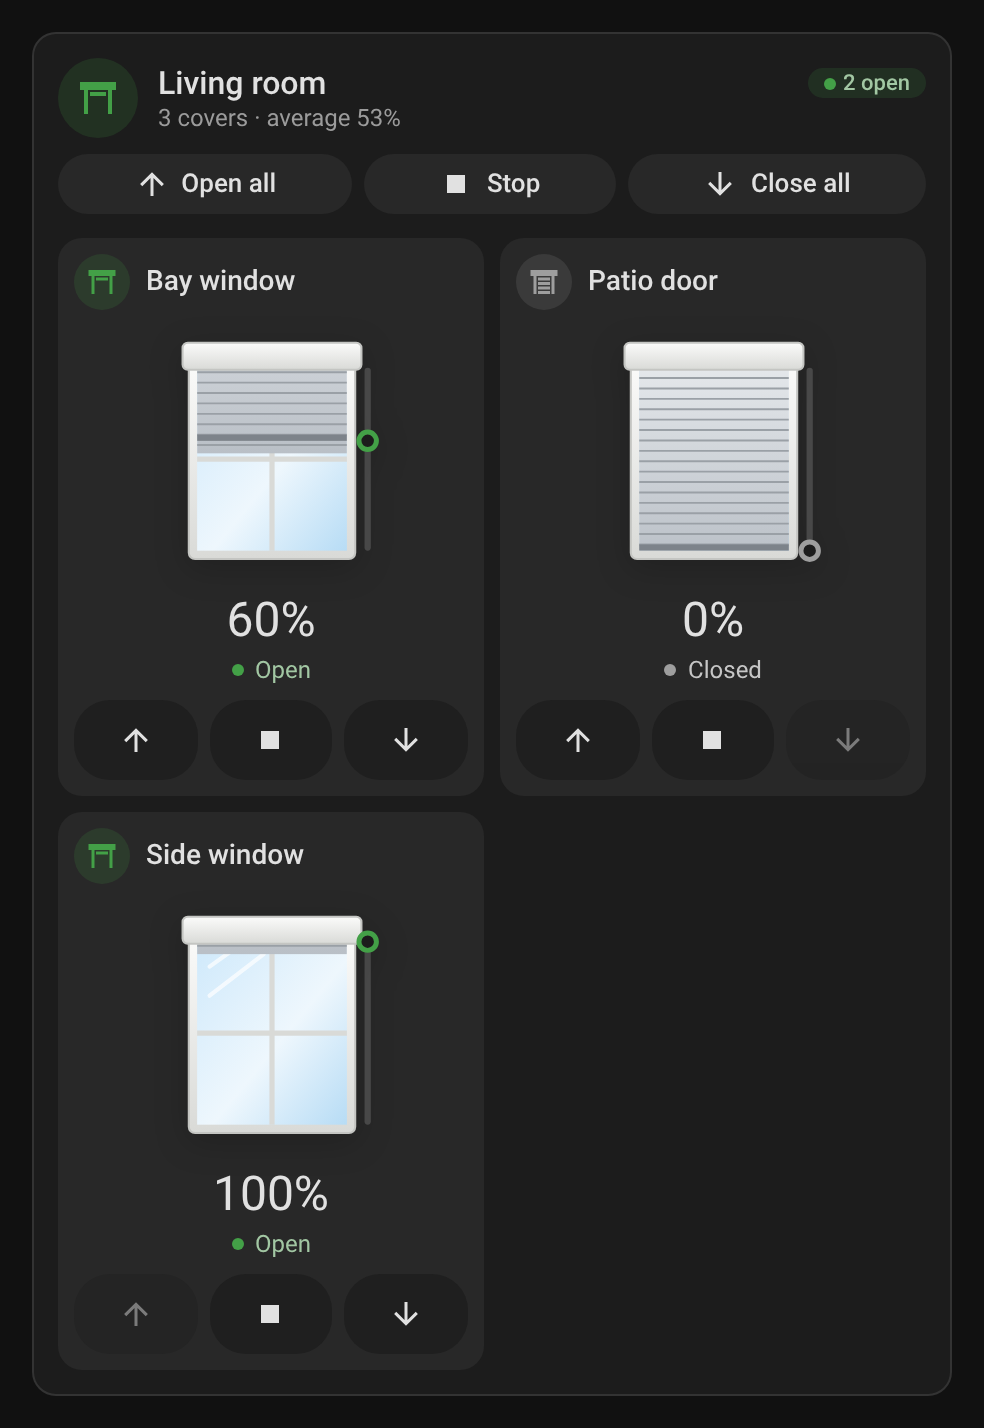
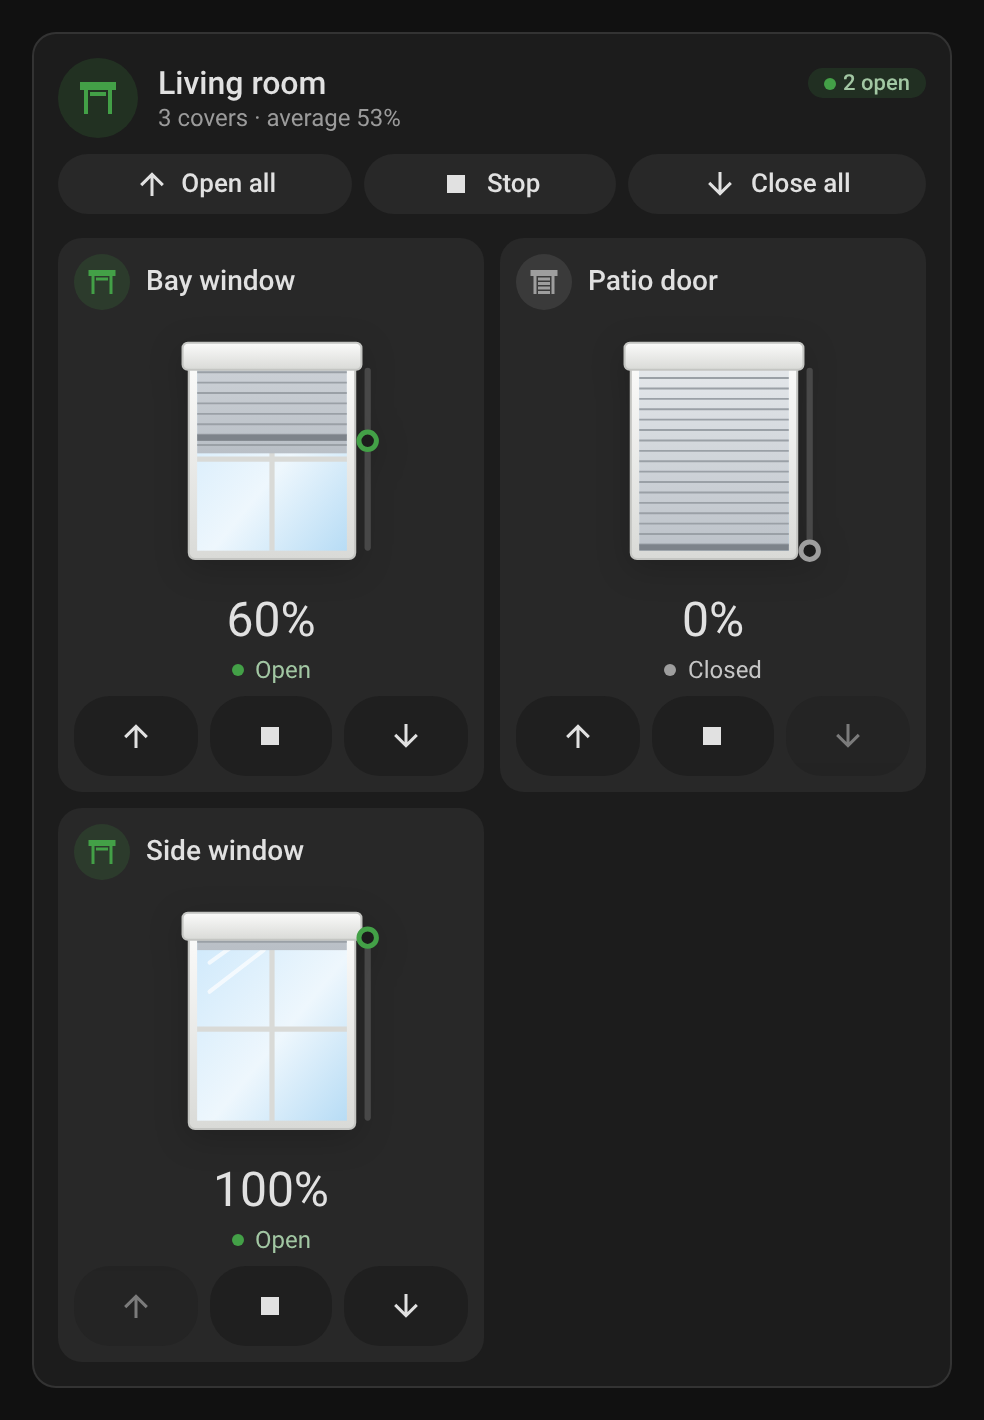
feat: draw feedback-less covers closed at rest (1.5.0) (#22)
Resolves #21.

## What
- **New `no_feedback` option** (per cover or whole card, exposed in the visual editor): for a cover that never reports its real state — a radio **RTS** motor and the like. At rest it is drawn and badged **closed** instead of trusting an assumed `open`; it still animates while opening/closing and keeps its Open / Stop / Close buttons enabled (the assumed state is not trusted). Covers that report a position are unaffected.
- **Tile button alignment**: in a `columns: 2`/`3` grid, the Open / Stop / Close rows now line up across tiles, even when one cover shows a position and another only a word (e.g. a garage door next to an RTS gate).

## Why
The reporter runs a sliding gate on a Somfy **RTS** motor: no state feedback, so the card drew it permanently open. `no_feedback` lets the picture rest closed, which is the sensible default for a feedback-less cover.

## Notes
- `feat` → minor bump **1.5.0** (CHANGELOG, package.json, package-lock.json in sync).
- 22 languages kept in sync for the new editor strings.
- README documented (card option + per-cover table + Position note).
- Local checks green: `pre-commit run -a`, `jscpd`, `npm run check`, `node --test` (new tests cover rest-closed, buttons stay enabled, animation while moving, editor round-trip).

---
_Generated by [Claude Code](https://claude.ai/code/session_01F4sAn2PgbdSND8gvt43SmS)_

diff --git a/src/cover-card.js b/src/cover-card.js
@@ -157,6 +157,8 @@ const STRINGS = {
     confirm_never: "Never",
     e_invert: "Invert position",
     h_invert: "For a cover whose integration reports the position the wrong way round (often an awning)",
+    e_no_feedback: "No state feedback",
+    h_no_feedback: "For a cover that never reports its state back (a radio RTS motor): draw it closed at rest",
   },
   fr: {
     covers: "Ouvrants",
@@ -236,6 +238,8 @@ const STRINGS = {
     confirm_never: "Jamais",
     e_invert: "Inverser la position",
     h_invert: "Pour un ouvrant dont l'intégration remonte la position à l'envers (souvent un store banne)",
+    e_no_feedback: "Aucun retour d'état",
+    h_no_feedback: "Pour un ouvrant qui ne remonte jamais son état (un moteur radio RTS) : dessiné fermé au repos",
   },
   de: {
     covers: "Abdeckungen",
@@ -315,6 +319,8 @@ const STRINGS = {
     confirm_never: "Nie",
     e_invert: "Position umkehren",
     h_invert: "Für eine Abdeckung, deren Integration die Position umgekehrt meldet (oft eine Markise)",
+    e_no_feedback: "Keine Statusrückmeldung",
+    h_no_feedback: "Für eine Abdeckung, die ihren Zustand nie zurückmeldet (ein RTS-Funkmotor): im Ruhezustand geschlossen gezeichnet",
   },
   es: {
     covers: "Cerramientos",
@@ -394,6 +400,8 @@ const STRINGS = {
     confirm_never: "Nunca",
     e_invert: "Invertir la posición",
     h_invert: "Para una cubierta cuya integración informa la posición al revés (a menudo un toldo)",
+    e_no_feedback: "Sin información de estado",
+    h_no_feedback: "Para una cubierta que nunca informa su estado (un motor de radio RTS): dibujada cerrada en reposo",
   },
   sr: {
     covers: "Затварачи",
@@ -473,6 +481,8 @@ const STRINGS = {
     confirm_never: "Никад",
     e_invert: "Обрни положај",
     h_invert: "За застор чија интеграција пријављује положај обрнуто (често тенда)",
+    e_no_feedback: "Без повратне информације о стању",
+    h_no_feedback: "За застор који никада не пријављује своје стање (радио RTS мотор): нацртан затворено у мировању",
   },
   "sr-Latn": {
     covers: "Zatvarači",
@@ -552,6 +562,8 @@ const STRINGS = {
     confirm_never: "Nikad",
     e_invert: "Obrni položaj",
     h_invert: "Za zastor čija integracija prijavljuje položaj obrnuto (često tenda)",
+    e_no_feedback: "Bez povratne informacije o stanju",
+    h_no_feedback: "Za zastor koji nikada ne prijavljuje svoje stanje (radio RTS motor): nacrtan zatvoreno u mirovanju",
   },
   it: {
     covers: "Coperture",
@@ -631,6 +643,8 @@ const STRINGS = {
     confirm_never: "Mai",
     e_invert: "Inverti la posizione",
     h_invert: "Per una copertura la cui integrazione segnala la posizione al contrario (spesso una tenda da sole)",
+    e_no_feedback: "Nessun ritorno di stato",
+    h_no_feedback: "Per una copertura che non segnala mai il suo stato (un motore radio RTS): disegnata chiusa a riposo",
   },
   nl: {
     covers: "Afdekkingen",
@@ -710,6 +724,8 @@ const STRINGS = {
     confirm_never: "Nooit",
     e_invert: "Positie omkeren",
     h_invert: "Voor een afdekking waarvan de integratie de positie omgekeerd doorgeeft (vaak een zonnescherm)",
+    e_no_feedback: "Geen statusterugkoppeling",
+    h_no_feedback: "Voor een afdekking die haar status nooit terugmeldt (een RTS-radiomotor): in rust gesloten getekend",
   },
   pt: {
     covers: "Estores",
@@ -789,6 +805,8 @@ const STRINGS = {
     confirm_never: "Nunca",
     e_invert: "Inverter a posição",
     h_invert: "Para um estore cuja integração indica a posição ao contrário (muitas vezes um toldo)",
+    e_no_feedback: "Sem retorno de estado",
+    h_no_feedback: "Para um estore que nunca comunica o seu estado (um motor de rádio RTS): desenhado fechado em repouso",
   },
   pl: {
     covers: "Osłony",
@@ -868,6 +886,8 @@ const STRINGS = {
     confirm_never: "Nigdy",
     e_invert: "Odwróć pozycję",
     h_invert: "Dla osłony, której integracja podaje pozycję odwrotnie (często markiza)",
+    e_no_feedback: "Brak informacji o stanie",
+    h_no_feedback: "Dla osłony, która nigdy nie zgłasza swojego stanu (radiowy silnik RTS): rysowana jako zamknięta w spoczynku",
   },
   ro: {
     covers: "Jaluzele",
@@ -947,6 +967,8 @@ const STRINGS = {
     confirm_never: "Niciodată",
     e_invert: "Inversează poziția",
     h_invert: "Pentru un element a cărui integrare raportează poziția invers (adesea o copertină)",
+    e_no_feedback: "Fără feedback de stare",
+    h_no_feedback: "Pentru un element care nu își raportează niciodată starea (un motor radio RTS): desenat închis în repaus",
   },
   da: {
     covers: "Afskærmninger",
@@ -1026,6 +1048,8 @@ const STRINGS = {
     confirm_never: "Aldrig",
     e_invert: "Vend positionen",
     h_invert: "For en afskærmning, hvis integration melder positionen omvendt (ofte en markise)",
+    e_no_feedback: "Ingen tilstandsrespons",
+    h_no_feedback: "For en afskærmning, der aldrig melder sin tilstand tilbage (en RTS-radiomotor): tegnet lukket i hvile",
   },
   sv: {
     covers: "Skydd",
@@ -1105,6 +1129,8 @@ const STRINGS = {
     confirm_never: "Aldrig",
     e_invert: "Invertera positionen",
     h_invert: "För en täckning vars integration rapporterar positionen omvänt (ofta en markis)",
+    e_no_feedback: "Ingen statusåterkoppling",
+    h_no_feedback: "För en täckning som aldrig rapporterar sitt tillstånd (en RTS-radiomotor): ritas stängd i viloläge",
   },
   bg: {
     covers: "Щори",
@@ -1184,6 +1210,8 @@ const STRINGS = {
     confirm_never: "Никога",
     e_invert: "Обръщане на позицията",
     h_invert: "За покритие, чиято интеграция докладва позицията обратно (често сенник)",
+    e_no_feedback: "Без обратна връзка за състоянието",
+    h_no_feedback: "За покритие, което никога не докладва състоянието си (радио RTS мотор): нарисувано затворено в покой",
   },
   ru: {
     covers: "Шторы",
@@ -1263,6 +1291,8 @@ const STRINGS = {
     confirm_never: "Никогда",
     e_invert: "Инвертировать положение",
     h_invert: "Для шторы, чья интеграция сообщает положение наоборот (часто маркиза)",
+    e_no_feedback: "Нет обратной связи о состоянии",
+    h_no_feedback: "Для шторы, которая никогда не сообщает своё состояние (радиомотор RTS): отрисовывается закрытой в покое",
   },
   uk: {
     covers: "Штори",
@@ -1342,6 +1372,8 @@ const STRINGS = {
     confirm_never: "Ніколи",
     e_invert: "Інвертувати положення",
     h_invert: "Для штори, чия інтеграція повідомляє положення навпаки (часто маркіза)",
+    e_no_feedback: "Немає зворотного зв'язку про стан",
+    h_no_feedback: "Для штори, яка ніколи не повідомляє свій стан (радіомотор RTS): малюється закритою у спокої",
   },
   hu: {
     covers: "Árnyékolók",
@@ -1421,6 +1453,8 @@ const STRINGS = {
     confirm_never: "Soha",
     e_invert: "Pozíció megfordítása",
     h_invert: "Olyan árnyékolóhoz, amelynek integrációja fordítva jelzi a pozíciót (gyakran napellenző)",
+    e_no_feedback: "Nincs állapot-visszajelzés",
+    h_no_feedback: "Olyan árnyékolóhoz, amely soha nem jelzi vissza az állapotát (RTS rádiómotor): nyugalmi helyzetben zárva rajzolva",
   },
   sk: {
     covers: "Clony",
@@ -1500,6 +1534,8 @@ const STRINGS = {
     confirm_never: "Nikdy",
     e_invert: "Obrátiť polohu",
     h_invert: "Pre kryt, ktorého integrácia hlási polohu opačne (často markíza)",
+    e_no_feedback: "Žiadna spätná väzba o stave",
+    h_no_feedback: "Pre kryt, ktorý nikdy nehlási svoj stav (rádiový motor RTS): v pokoji vykreslený zatvorený",
   },
   cs: {
     covers: "Clony",
@@ -1579,6 +1615,8 @@ const STRINGS = {
     confirm_never: "Nikdy",
     e_invert: "Obrátit polohu",
     h_invert: "Pro kryt, jehož integrace hlásí polohu obráceně (často markýza)",
+    e_no_feedback: "Bez zpětné vazby o stavu",
+    h_no_feedback: "Pro kryt, který nikdy nehlásí svůj stav (rádiový motor RTS): v klidu vykreslen zavřený",
   },
   sl: {
     covers: "Senčila",
@@ -1658,6 +1696,8 @@ const STRINGS = {
     confirm_never: "Nikoli",
     e_invert: "Obrni položaj",
     h_invert: "Za senčilo, katerega integracija sporoča položaj obratno (pogosto tenda)",
+    e_no_feedback: "Brez povratne informacije o stanju",
+    h_no_feedback: "Za senčilo, ki nikoli ne sporoči svojega stanja (radijski motor RTS): v mirovanju narisano zaprto",
   },
   lv: {
     covers: "Aizsegi",
@@ -1737,6 +1777,8 @@ const STRINGS = {
     confirm_never: "Nekad",
     e_invert: "Apvērst pozīciju",
     h_invert: "Pārsegam, kura integrācija ziņo pozīciju otrādi (bieži markīze)",
+    e_no_feedback: "Nav stāvokļa atgriezeniskās saites",
+    h_no_feedback: "Pārsegam, kas nekad nepaziņo savu stāvokli (RTS radio motors): miera stāvoklī zīmēts aizvērts",
   },
   el: {
     covers: "Σκιάστρα",
@@ -1816,6 +1858,8 @@ const STRINGS = {
     confirm_never: "Ποτέ",
     e_invert: "Αντιστροφή θέσης",
     h_invert: "Για κάλυμμα του οποίου η ενσωμάτωση αναφέρει τη θέση ανάποδα (συχνά τέντα)",
+    e_no_feedback: "Χωρίς ανατροφοδότηση κατάστασης",
+    h_no_feedback: "Για ένα κάλυμμα που δεν αναφέρει ποτέ την κατάστασή του (ραδιοκινητήρας RTS): σχεδιάζεται κλειστό σε ηρεμία",
   },
 };
 
@@ -2293,10 +2337,12 @@ const FULL_STYLE = `
                        background: color-mix(in srgb, var(--c) 16%, transparent); color: var(--c); }
   .tile-head .mbadge .icon { width: 18px; height: 18px; }
   .tile-head .iname { flex: 1 1 0; min-width: 0; font-size: 14px; font-weight: 500; white-space: nowrap; overflow: hidden; text-overflow: ellipsis; }
-  .tile .hero { flex-direction: column; align-items: stretch; gap: 8px; }
+  .tile .hero { flex: 1 1 auto; flex-direction: column; align-items: stretch; gap: 8px; }
   .tile .hero .visual { align-self: center; width: 104px; height: 125px; }
-  .tile .info { align-items: center; text-align: center; }
-  .tile .controls { flex-wrap: nowrap; align-self: stretch; }
+  /* Tiles in a row stretch to the same height; the picture + value area grows and the buttons sit at the bottom,
+     so the button rows line up across tiles even when one cover shows a position and another only a word. */
+  .tile .info { flex: 1 1 auto; align-items: center; text-align: center; }
+  .tile .controls { flex-wrap: nowrap; align-self: stretch; margin-top: auto; }
   .tile .controls .btn { flex: 1 1 0; min-height: 40px; }
   .tile .btn { background: color-mix(in srgb, var(--card-background-color, #fff) 75%, transparent); }
   .tile .btn.on { background: color-mix(in srgb, var(--cc-accent) 16%, var(--card-background-color, #fff)); }
@@ -2549,10 +2595,18 @@ class CoverBase extends HTMLElement {
     this._area = area;
     const cardFavs = favoritesOf(this._config.favorites);
     return items.map((i) => {
-      const s = this._hass.states[i.entity];
+      let s = this._hass.states[i.entity];
+      // Covers with no state feedback (a radio RTS motor, which reports nothing back): at rest they are drawn and
+      // badged closed, since their open/closed state is only assumed. While the cover moves, the real state is kept
+      // so the picture still animates; a cover that actually reports a position is left alone — it has real feedback.
+      const noFeedback = Boolean(i.no_feedback ?? this._config.no_feedback);
+      if (noFeedback && s && !isMoving(s) && s.state !== "closed" && s.state !== "unavailable" && numAttr(s, "current_position") === null) {
+        s = { ...s, state: "closed" };
+      }
       return {
         id: i.entity,
         s,
+        noFeedback,
         cls: classOf(s, i.device_class || this._config.device_class),
         // Covers whose integration reports the position the wrong way round (often awnings): the card mirrors it.
         invert: Boolean(i.invert ?? this._config.invert),
@@ -3014,7 +3068,7 @@ class CoverBase extends HTMLElement {
   _buttons(item, { round = false, labels = true } = {}) {
     const s = item.s;
     const off = isOffline(s);
-    const pos = s?.attributes?.assumed_state === true ? null : positionOf(s);
+    const pos = s?.attributes?.assumed_state === true || item.noFeedback ? null : positionOf(s);
     const out = [];
     for (const action of ["open", "stop", "close"]) {
       if (!s || !has(s, SERVICES[action][1])) continue;
@@ -3364,6 +3418,7 @@ const toForm = (config, toggles) => {
   data.favorites = (Array.isArray(config.favorites) ? config.favorites : []).filter((f) => typeof f === "number" || typeof f === "string").map(String);
   data.device_class ??= "auto";
   data.invert ??= false;
+  data.no_feedback ??= false;
   data.confirm = CONFIRM_MODES.find(([, v]) => v === config.confirm)?.[0] ?? "auto";
   data.columns = String(columnsOf(config));
   for (const [name, def] of toggles) if (data[name] === undefined) data[name] = def;
@@ -3391,6 +3446,7 @@ const fromForm = (value, previous, toggles) => {
   if (favs.length) config.favorites = favs;
   if (config.device_class === "auto") delete config.device_class;
   if (config.invert === false) delete config.invert;
+  if (config.no_feedback === false) delete config.no_feedback;
   const mode = CONFIRM_MODES.find(([k]) => k === config.confirm);
   if (mode && mode[1] !== undefined) config.confirm = mode[1];
   else delete config.confirm;
@@ -3430,6 +3486,7 @@ class CoverEditorBase extends HTMLElement {
         selector: { select: { mode: "dropdown", options: [{ value: "auto", label: tr("class_auto") }, ...CLASSES.map((c) => ({ value: c, label: tr(`c_${c}`) }))] } },
       },
       { name: "invert", selector: { boolean: {} } },
+      { name: "no_feedback", selector: { boolean: {} } },
       {
         name: "favorites",
         selector: { select: { multiple: true, custom_value: true, mode: "dropdown", options: FAVORITE_PRESETS.map((v) => ({ value: v, label: `${v} %` })) } },

diff --git a/README.md b/README.md
@@ -182,6 +182,7 @@ zoom: true
 | `show_subtitle` | both | `true` | Show the subtitle (kind of cover and area, or the number of covers and their average position) |
 | `device_class` | both | Device class of each cover | Picture to draw for every cover: `shutter`, `blind`, `shade`, `curtain`, `awning`, `garage`, `gate`, `door`, `window` or `damper` |
 | `invert` | both | `false` | Reverse the position axis for covers whose integration reports it the wrong way round (often awnings): the picture, the slider and the percentage use `100 − current_position`, and `set_cover_position` is sent reversed. Set per cover (in its `entities` object) or for the whole card. The Open / Stop / Close buttons are unchanged |
+| `no_feedback` | both | `false` | For a cover that never reports its real state (a radio **RTS** motor and the like): at rest it is drawn and badged **closed**, since its open/closed state is only assumed. While it moves it still animates, and the Open / Stop / Close buttons stay enabled. Set per cover (in its `entities` object) or for the whole card. Covers that report a position are unaffected |
 | `favorites` | both | — | Favorite positions: numbers (a position in %) or objects with `name`, `position` and/or `tilt`. With one cover they are its favorites; with several, they move every cover that can take them |
 | `show_controls` | both | `true` | Open / Stop / Close buttons (and the tilt buttons) |
 | `show_group_controls` | both | `true` | Open all / Stop / Close all buttons above the rows of several covers (on the mini card, in its detailed view) |
@@ -202,6 +203,7 @@ Per-cover options, in an object of `entities`:
 | `entity` | The cover (required) |
 | `name` | Name shown instead of the friendly name |
 | `device_class` | Picture of this cover (same values as above) |
+| `no_feedback` | Draw this cover closed at rest when it reports no real state (a radio RTS motor); same as the card option above |
 | `favorites` | Favorite positions of this cover (same form as above), shown in its detail |
 
 ## Screenshots
@@ -342,7 +344,7 @@ A damper turns its blade edge-on and the air starts flowing through the duct.
 
 ## How it works
 
-- **Position**: 0 % is closed and 100 % open, as in Home Assistant. The slider follows the moving edge of the picture: the top is open for what rises (shutter, blind, shade, garage door, and by convention door, roof window and damper), the bottom for an awning, the right for curtains and a sliding gate. A cover without `current_position` is drawn fully open or closed by its state, and half-way while it moves. Some integrations report the position the other way round (an awning that reads 100 % when retracted): set `invert` on that cover to mirror the picture, the slider and the percentage back.
+- **Position**: 0 % is closed and 100 % open, as in Home Assistant. The slider follows the moving edge of the picture: the top is open for what rises (shutter, blind, shade, garage door, and by convention door, roof window and damper), the bottom for an awning, the right for curtains and a sliding gate. A cover without `current_position` is drawn fully open or closed by its state, and half-way while it moves. Some integrations report the position the other way round (an awning that reads 100 % when retracted): set `invert` on that cover to mirror the picture, the slider and the percentage back. A cover that reports no real state at all (a radio RTS motor): set `no_feedback` on it to draw it closed at rest instead of trusting an assumed open.
 - **Features**: buttons, sliders and favorites follow `supported_features` (open, close, set position, stop, and the four tilt features). A cover without `supported_features` (an old template cover) gets open, close and stop, plus position and tilt when it reports them.
 - **Colors**: moving is blue, open is green (orange for a garage door, gate, door or window), closed is grey and unavailable red; the header and the summary take the state of the group.
 - **Redraws**: the card is redrawn only when one of its covers changes, never while a slider is held.

diff --git a/CHANGELOG.md b/CHANGELOG.md
@@ -1,5 +1,13 @@
 # Changelog
 
+## 1.5.0 - 2026-11-15
+
+### Features
+- **No state feedback** (`no_feedback: true`, in the visual editor too): for a cover that never reports its real state — a radio **RTS** motor and the like — the picture and badge now show it **closed** at rest instead of trusting an assumed open; it still animates while it moves and keeps its Open / Stop / Close buttons enabled. Set it per cover or for the whole card ([#21](https://github.com/juju35/ha-cover-card/issues/21), suggested by @mielikki33).
+
+### Fixes
+- **Tile button alignment**: in a grid of tiles (`columns: 2` or `3`), the Open / Stop / Close rows now line up across tiles even when one cover shows a position and another only a word ([#21](https://github.com/juju35/ha-cover-card/issues/21), reported by @mielikki33).
+
 ## 1.4.0 - 2026-11-15
 
 ### Features
